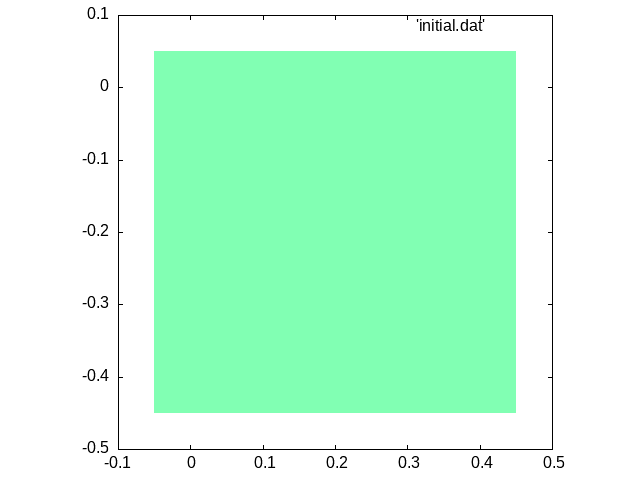
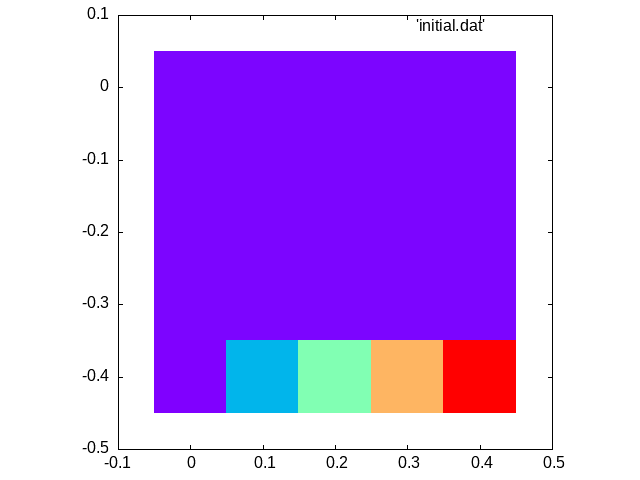
Jacobi initialize

diff --git a/jacobi_exercise/mpi_code/src/linearized_matrix_utility.c b/jacobi_exercise/mpi_code/src/linearized_matrix_utility.c
@@ -1,4 +1,5 @@
 #include "headers/linearized_matrix_utility.h"
+#include "headers/general_utility.h"
 /**
  * @brief This function creates a local identity matrix
  * of size dim X dim 
@@ -37,13 +38,18 @@ int linear_index ( int i, int j, int dim1, int dim2)
  * @param dim_1 rows dimension
  * @param dim_2 cols dimension
  */
-void print_matrix(double * A, int dim_1, int dim_2 ) {
-  //fprintf( stdout, "\n");
+void print_matrix(double * A, int dim_1, int dim_2, bool ghost) {
   for(int i = 0; i < dim_1; i++ ){
-    for(int j = 0; j < dim_2; j++ ){
-      fprintf( stdout, "%.3g ", A[ j + ( i * dim_2 ) ] );
+    if (i==0 || i==dim_1-1) {
+      if (ghost) printf_red();
     }
-    fprintf( stdout, "\n");
+    for(int j = 0; j < dim_2; j++ ){
+      printf("%.3f ", A[linear_index(i,j,dim_1,dim_2)]);
+    }
+    if (i==0 || i==dim_1-1) {
+      if (ghost) printf_reset();
+    }
+    printf("\n");
   }
 }
 
@@ -62,21 +68,22 @@ void print_matrix(double * A, int dim_1, int dim_2 ) {
  * @param COMM MPI communicator
 */
 void print_matrix_distributed (double * A, int irank,
- int* dim_1 , int dim_2, int n_proc_tot, MPI_Comm COMM) {
+ int* dim_1 , int dim_2, int n_proc_tot, MPI_Comm COMM, bool divisor) {
   
   if ( irank == 0 ) {
       /*This variable are only for irank==0
       so they can be moved inside the if*/
       double * A_tmp;
-      print_matrix ( A , dim_1[irank], dim_2) ;
-
+      print_matrix ( A , dim_1[irank], dim_2, true) ;
+      if (divisor)     printf("-----------------------------------\n");
       for (int count = 1; count < n_proc_tot ; count ++ ) {
           int size= dim_1[count] * dim_2 * sizeof( double);
           A_tmp = (double *) malloc( size );
 
           MPI_Recv ( A_tmp , dim_1[count] * dim_2 , MPI_DOUBLE , count ,
             count , COMM , MPI_STATUS_IGNORE ) ;
-          print_matrix ( A_tmp , dim_1[count], dim_2 ) ;
+          print_matrix ( A_tmp , dim_1[count], dim_2, true) ;
+          if (divisor) printf("-----------------------------------\n");
       }
   }
   else {
@@ -110,22 +117,24 @@ void print_matrix_distributed_gnuplot (double * A, int irank,
   if ( irank == 0 ) {
       file = fopen( filename, "w" );
       for(int i = 1; i < dim_1[0]-1; ++i ) {
-         for(int j = 1; j < dim_2-1 ; ++j ) {
-          fprintf(file, "%f\t%f\t%f\n", h * (j-1), -h * (i-1), A[linear_index(i,j,dim_1[0]-2,dim_2-2)] );
+         for(int j = 0; j < dim_2 ; ++j ) {
+          fprintf(file, "%f\t%f\t%f\n", h * (j), -h * (i-1), A[linear_index(i,j,dim_1[0],dim_2)] );
         }
       }
 
       double * A_tmp;
 
       for (int count = 1; count < n_proc_tot ; count ++ ) {
-        int size= dim_1[count] * dim_2 * sizeof( double);
+        size_t size= dim_1[count] * dim_2 * sizeof( double);
         A_tmp = (double *) malloc( size );
-
         MPI_Recv ( A_tmp , dim_1[count] * dim_2 , MPI_DOUBLE , count ,
-          count , COMM , MPI_STATUS_IGNORE ) ;
+          count , COMM , MPI_STATUS_IGNORE );
+
         for(int i = 1; i < dim_1[count]-1; ++i ) {
-          for(int j = 1; j < dim_2-1; ++j ) {
-            fprintf(file, "%f\t%f\t%f\n", h * (j-1), -h * (i-1+displacement[count]), A[linear_index(i,j,dim_1[count]-2,dim_2-2)] );
+          for(int j = 0; j < dim_2; ++j ) {
+            fprintf(file, "%f\t%f\t%f\n", h * (j), -h * (i-1+displacement[count]), A_tmp[linear_index(i,j,dim_1[count],dim_2)] );
+            printf("i : %d , j: %d, linear %d, irank %d, value %15.17f\n", i, j, linear_index(i,j,dim_1[count],dim_2),
+             count, A_tmp[linear_index(i,j,dim_1[count],dim_2)]);
           }
         }
       }
@@ -159,7 +168,7 @@ void create_identity_matrix_distributed (double * A, int irank,
 }
 
 void create_jacobi_start_distributed (double * A, int irank,
- int *dim_1 , int dim_2,  int* offset) {
+ int *dim_1 , int dim_2,  int* offset, int n_proc_tot) {
   
   /*Firstly I set everything to 0.5*/
   for (int i = 0; i < dim_1[irank]; i++) {
@@ -167,7 +176,28 @@ void create_jacobi_start_distributed (double * A, int irank,
       A[linear_index(i,j,dim_1[irank], dim_2)] = 0.5;
     }
   }
+
+  /*Extra ghost layer (over the boundaries) are set to 0*/
+  for (int j = 0; j < dim_2; j++) {
+    if (irank==0) {
+      A[linear_index(0,j,dim_1[irank],dim_2)] = 0;
+    }
+    if (irank==n_proc_tot-1) {
+      A[linear_index(dim_1[irank]-1,j,dim_1[irank],dim_2)] = 0;
+    }
+  }
   
+  double  increment = 100.0 / ( dim_2-1 );
+  /*Last row*/
+  if (irank==n_proc_tot-1) {
+    for (int j = 0; j < dim_2; j++) {
+      A[linear_index(dim_1[irank]-2,j,dim_1[irank],dim_2)] = j*increment;
+      //printf("i : %d , j: %d, value %15.17f\n", dim_1[irank]-2, j, j*increment);
+    }
+  }
+  
+  /*Left column*/
+
 
 }
 

diff --git a/jacobi_exercise/mpi_code/src/main.c b/jacobi_exercise/mpi_code/src/main.c
@@ -109,12 +109,13 @@ int main(int argc, char* argv[]){
 #endif
 
   /*Allocation of the spaces for each processor. Remember that each
-  matrix need extra 2 rows and cols for the ghots layer*/
+  matrix need extra 2 rows for the ghots layer, but for the first and the last
+  process these are extra since they have a boundary*/
   dim_1_local = (int *) malloc(n_proc_tot*sizeof(int));
   for (int count = 0; count < n_proc_tot; count++) {
     dim_1_local[count] = n_rows_local[count] + 2;
   }
-  dim_2_local = dimension + 2;
+  dim_2_local = dimension;
   
 #ifdef DEBUG
     if (irank == MASTER) {
@@ -136,7 +137,9 @@ int main(int argc, char* argv[]){
   memset( matrix, 0, matrix_local_dimension );
   memset( matrix_new, 0, matrix_local_dimension );
 
-  create_jacobi_start_distributed(matrix, irank, dim_1_local, dim_2_local, displacement);
+  create_jacobi_start_distributed(matrix, irank, dim_1_local, dim_2_local,
+   displacement, n_proc_tot);
+  MPI_Barrier(COMM);
   /*
   
   // set up borders 
@@ -150,10 +153,10 @@ int main(int argc, char* argv[]){
   }
   */
   //save_gnuplot( matrix, dimension, "initial.dat");
-#ifdef DEBUG
+//#ifdef DEBUG
   print_matrix_distributed(matrix, irank, dim_1_local, dim_2_local,
-    n_proc_tot, COMM);
-#endif
+    n_proc_tot, COMM, true);
+//#endif
   print_matrix_distributed_gnuplot(matrix, irank, dim_1_local, dim_2_local,
     displacement, n_proc_tot, COMM, "initial.dat");
 

diff --git a/jacobi_exercise/mpi_code/src/headers/linearized_matrix_utility.h b/jacobi_exercise/mpi_code/src/headers/linearized_matrix_utility.h
@@ -2,6 +2,7 @@
 #include <stdlib.h>
 #include <string.h>
 #include <mpi.h>
+#include <stdbool.h>
 
 void create_identity_matrix (double * A, int dim);
 
@@ -9,10 +10,10 @@ void print_matrix_square(double * A, int dim );
 
 int linear_index ( int i, int j, int dim1, int dim2);
 
-void print_matrix(double * A, int dim_1, int dim_2);
+void print_matrix(double * A, int dim_1, int dim_2, bool ghost);
 
 void print_matrix_distributed (double * A, int irank,
- int* dim_1 , int dim_2, int n_proc_tot, MPI_Comm COMM);
+ int* dim_1 , int dim_2, int n_proc_tot, MPI_Comm COMM, bool divisor);
 
 void print_matrix_distributed_gnuplot (double * A, int irank,
  int* dim_1 , int dim_2, int* displacement, int n_proc_tot, MPI_Comm COMM, char filename[]);
@@ -21,7 +22,7 @@ void create_identity_matrix_distributed (double * A, int irank,
  int dim_1 , int dim_2,  int offset);
 
 void create_jacobi_start_distributed (double * A, int irank,
- int *dim_1 , int dim_2,  int* offset);
+ int *dim_1 , int dim_2,  int* offset, int n_proc_tot);
 
 void matrix_multiplication(double* A, double* B_col, double* C, 
   int N, int* n_rows_local, int* displacement, int irank, int count);
